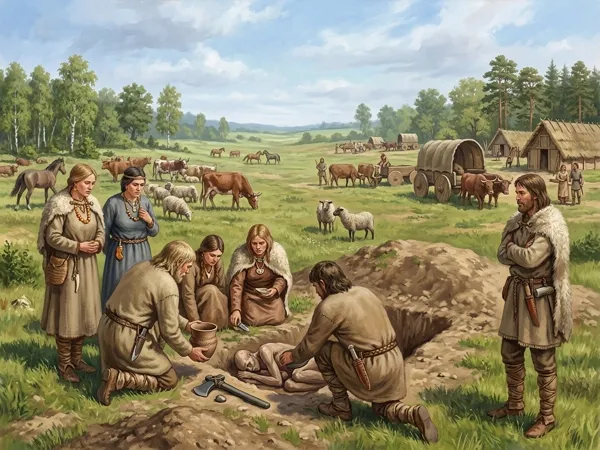
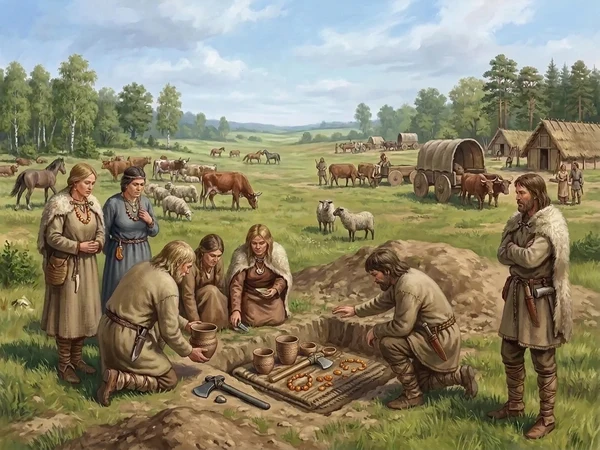
Animate Corded Ware and Bell Beaker cultures

diff --git a/scripts/video/species.ts b/scripts/video/species.ts
@@ -132,9 +132,13 @@ const SCENE_PROMPTS: Record<string, string> = {
   afanasievo:
     "Scientific museum paleoart illustration of an Afanasievo pastoralist settlement in an alpine valley of the Altai Mountains, locked static camera with no camera movement or zoom. Keep the snow-capped mountain peaks, the timber log houses, and the overall composition completely still and unchanged. On the left foreground, the kneeling woman in a fur-trimmed tunic gently shapes and smooths the rim of the herringbone-patterned clay pot with both hands. In the center foreground, the seated craftsman in a fur-collared coat tilts and polishes the gleaming copper dagger blade in his hands. On the right midground, the two hunters in fur-trimmed coats walk steadily forward along the grassy bank carrying an ibex on a wooden pole, while the mountain river flows with lively white ripples and the horse, cattle, and sheep graze quietly in the meadow.",
   "corded-ware":
-    "Scientific museum paleoart illustration of a Corded Ware pastoralist settlement and barrow ritual in northern Europe, locked static camera with no camera movement or zoom. Keep the grave pit, the thatched timber houses on the right, and the overall composition completely still and unchanged. On the left foreground, the kneeling bearded man in a belted tunic gently lowers the cord-impressed clay beaker with both hands, while the kneeling man opposite him in a belted tunic extends his hand reverently and the standing women in wool dresses and amber necklaces watch solemnly. Across the green pasture in the midground, the horned cattle, woolly sheep, and brown horses graze and shift naturally, while the oxen hitched to the covered four-wheeled wooden wagons step slowly forward.",
+    "Scientific museum paleoart illustration of a Corded Ware pastoralist settlement and ceremonial gathering in northern Europe, locked static camera with no camera movement or zoom. Keep the earth trench in the foreground, the thatched timber houses on the right, and the overall composition completely still and unchanged. On the left foreground, the kneeling bearded craftsman in a belted tunic gently holds and tilts the cord-impressed clay beaker with both hands, while the kneeling man opposite him in a belted tunic extends his hand calmly and the standing women in wool dresses and amber necklaces nod gently. Across the green pasture in the midground, the horned cattle, woolly sheep, and brown horses graze and shift naturally, while the oxen hitched to the covered four-wheeled wooden wagons step slowly forward.",
   "bell-beaker":
     "Scientific museum paleoart illustration of a Bell Beaker settlement and copper-working camp in Bronze Age Europe, locked static camera with no camera movement or zoom. Keep the red bell-shaped pottery vessels on the left, the distant thatched roundhouses, and the overall composition completely still and unchanged. In the center foreground, the kneeling bearded smith in a woven tunic rhythmically polishes and shapes the gleaming copper dagger blade over the glowing charcoal hearth, where orange embers pulse warmly. Beside him on the right, the standing archer in a belted tunic and stone wrist-guard gently inspects the feathered arrow in his hands while the woman in a woven dress and gold ornaments watches attentively. On the chalk mound in the left midground, the workers in tunics carry woven baskets of white chalk to build the round barrow.",
+  unetice:
+    "Scientific museum paleoart illustration of an Early Bronze Age Únětice hilltop stronghold in central Europe, locked static camera with no camera movement or zoom. Keep the timber palisade fence, the earthen barrow mound on the right, and the overall composition completely still and unchanged. On the left foreground, the two bearded nobles in woven tunics and wool cloaks hold up the bronze and gold Nebra Sky Disc together, tilting it slightly so the gold inlays gleam in the sunlight as they converse and nod. In the center midground, bright orange flames flicker inside the circular stone furnace with pale smoke rising as the smith on the left pumps the leather bellows and the smith on the right pours a glowing orange stream of molten bronze into the stone mold, while the elder on the right gestures toward the bronze axes and halberd on the table.",
+  andronovo:
+    "Scientific museum paleoart illustration of a Bronze Age Andronovo pastoralist and metalworking settlement on the Eurasian steppe, locked static camera with no camera movement or zoom. Keep the rocky outcrop with carved petroglyphs on the right, the timber log houses, and the overall composition completely still and unchanged. On the left foreground, the two harnessed bay horses hitched to the spoked wooden chariot shift their weight, turn their heads slightly, and swish their tails as the charioteer in an embroidered tunic holds the reins steady. On the right foreground, bright orange flames flicker inside the stone furnace with pale smoke rising as the assistant pumps the leather bellows and the smith pours a glowing stream of molten bronze into the stone mold, while cattle, sheep, and horses graze across the green river valley.",
   "kalambo-falls-wood":
     "Scientific museum paleoart illustration of Lower Paleolithic woodworking at Kalambo Falls, locked static camera with no camera movement or zoom. Keep the two-line text title 'Earliest Wooden Structure' at the top, the lush framing forest canopy, and the overall composition completely still and unchanged. In the background, the grand Kalambo waterfall flows smoothly down the vertical gorge cliff with a soft misty spray rising, while river water ripples gently along the muddy banks. In the foreground, the seated hominin rhythmically scrapes and shapes the notched wooden log with his stone handaxe, while the hominin on the right levers the damp earth with a wooden digging stick. In the midground, the figures along the wooden walkway make subtle, natural movements as they assemble the timber platform.",
   "schoningen-spears":
